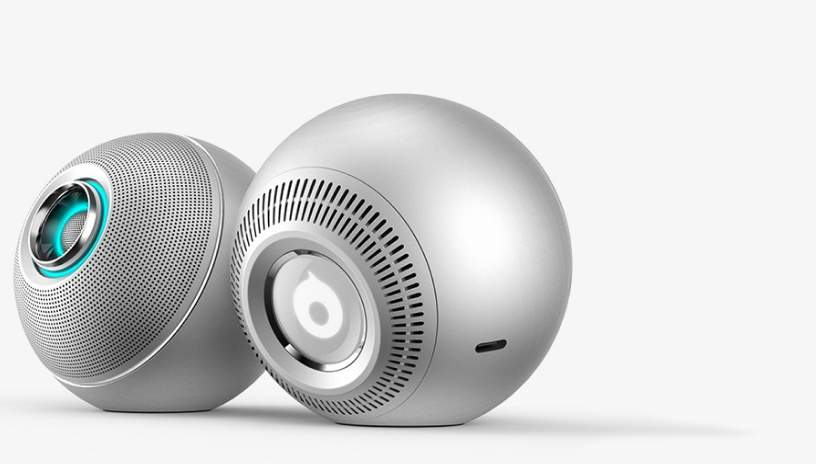
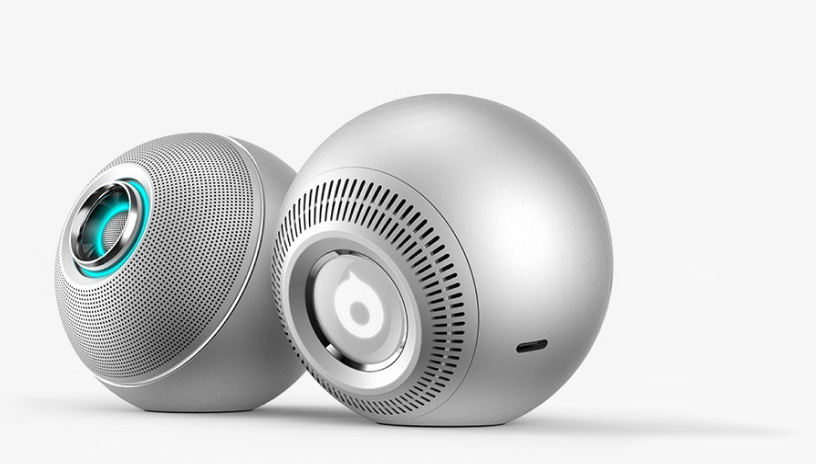
fixed image in first section

Changed region(s): [[0.0, 0.181, 0.7659, 0.9353]]

diff --git a/src/styles/components/_first-section.scss b/src/styles/components/_first-section.scss
@@ -1,7 +1,7 @@
 .first-section {
   display: flex;
   padding-top: 90px;
-overflow: hidden;
+  overflow: hidden;
   @include device(smartphone) {
     flex-direction: column-reverse;
     gap: 40px;
@@ -51,11 +51,11 @@ overflow: hidden;
     width: 100%;
     animation: shiftColor 5s linear infinite;
     transition: .3s ease-in-out;
+    @include device(smartphone) {
+      margin-left: 10%;
+    }
     &:hover {
       transform: scale(1.05);
-    }
-    @include device(tablet) {
-      width: 130%;
     }
   }
 }
